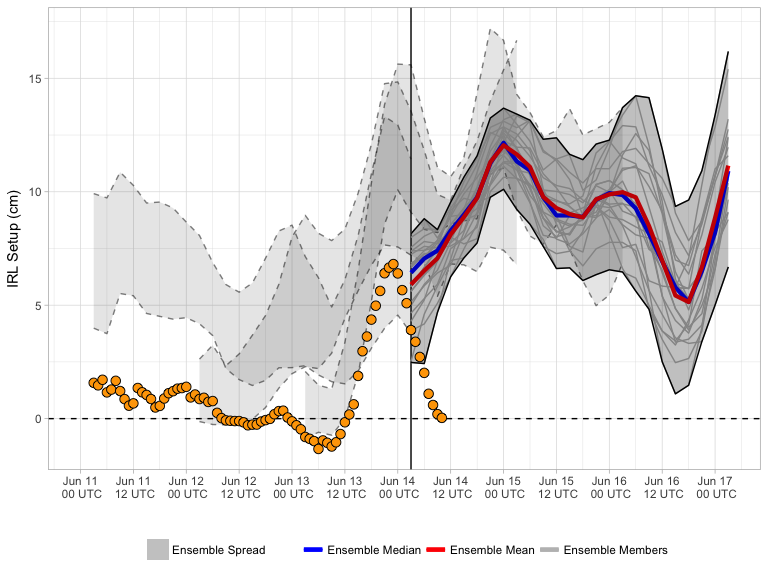
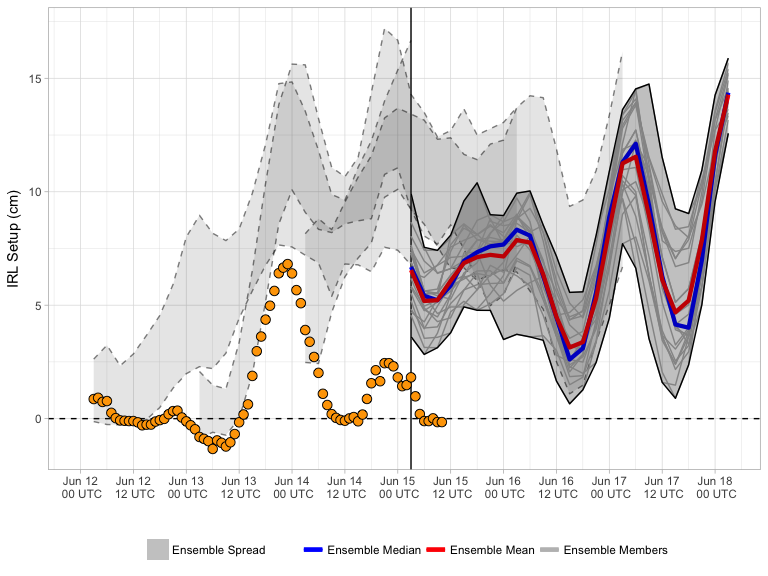
20170615 forecast update

Changed region(s): [[0.0938, 0.0312, 0.9688, 0.8125]]

diff --git a/docs/index.md b/docs/index.md
@@ -3,7 +3,7 @@ Current Forecast
 
 [![](img/raw_setup.png)](https://bhlmn.github.io/IRLSetup/img/raw_setup.png)
 
-> Forecast valid 2017-06-14 06:57:52.
+> Forecast valid 2017-06-15 06:55:44.
 
 Explanation
 -----------
@@ -15,7 +15,7 @@ water elevation in the northern IRL (near Titusville), and negative
 setup indicates the increase elevation in the southern IRL (near
 Sebastian). The x-axis displays the date and time in UTC. The solid
 vertical line represents the beginning of the most recent ensemble
-forecast (currently 2017-06-13 18:00:00). For this most recent forecast,
+forecast (currently 2017-06-14 18:00:00). For this most recent forecast,
 the ensemble spread (grey shading) is bound by solid black lines, with
 individual members represented by faint grey lines. The ensemble mean
 and median for this are represented by the red and blue curves,
